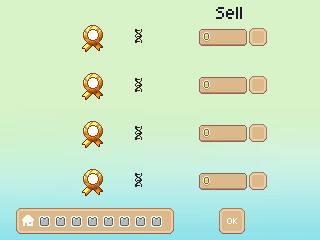
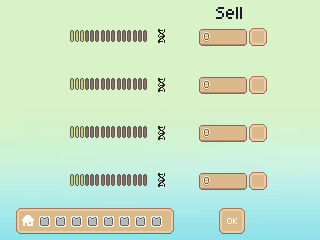
replace ribbons with stat bars

diff --git a/micropython/game.py b/micropython/game.py
@@ -568,20 +568,29 @@ def screen_breeding_sale(children):
 
     available_space = DATA['field']['limits'][DATA['field']['level']] - len(POPULATION)
 
+    statbar_assets = {
+        'S':'statbar_05',
+        'A':'statbar_04',
+        'B':'statbar_03',
+        'C':'statbar_02',
+        'D':'statbar_01',
+    }
     for v_counter, critter in enumerate(children):
         value = critter.get_value()
 
         vertical_position = 10 + (48 * v_counter)
-        Layers.middle.append({
+        Layers.middle.append(
+            {
             'file':     critter.get_sprite(),
             'position': (10, vertical_position),
             'scale':    2
-        })
-        Layers.text.append({
-            'text':value['phenotype']['rank'],
-            'position':(110, vertical_position + 18),
-            'scale': 3
-        })
+            },
+            {
+            'file':     statbar_assets.get(value['phenotype']['rank'], 'statbar_01'),
+            'position': (68, vertical_position + 20),
+            'scale':    2
+            }
+        )
         Layers.text.append({
             'text':f"{value['heterozygousity']}%",
             'position':(145, vertical_position + 20),
